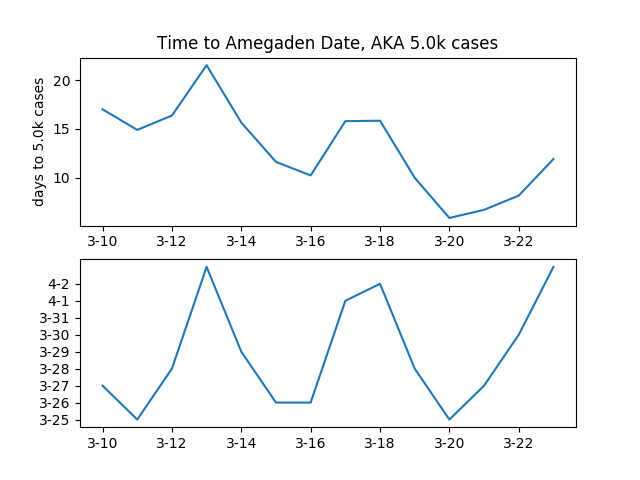
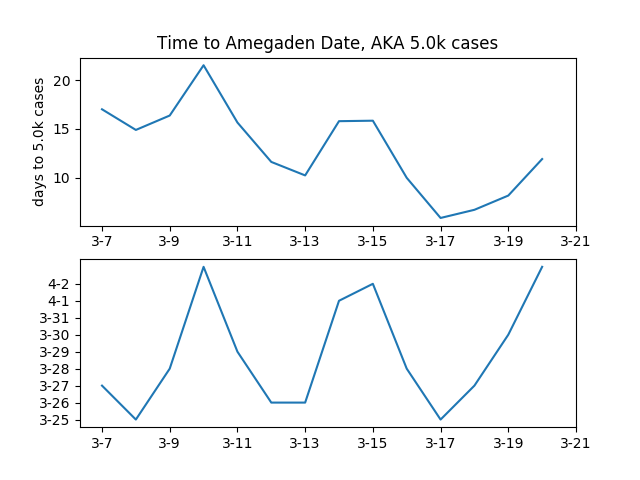
rate computation for multiple states

diff --git a/log_trend.py b/log_trend.py
@@ -13,7 +13,7 @@ n_cases['New York'] = [89, 105, 142, 173, 216, 325, 421, 613, 729, 950, 1374, 24
 n_cases['Italy'] = [1694, 2036, 2502, 3089, 3858, 4636, 5883, 7375, 9172, 10149, 12462, 15113, 17660, 21157, 24747, 27980, 31506, 35713, 41035, 47021, 53578, 59138, 63937]
 n_cases['France'] = [949, 1126, 1412, 1784, 2281, 2876, 3661, 4499, 5423, 6633, 7730, 9134, 10995, 12612, 14459, 16689, 19846]
 n_cases['Germany'] = [684, 847, 1113, 1460, 1884, 2369, 3062, 3795, 4838, 6012, 7156, 8198, 10999, 13957, 16662, 18610, 22672]
-
+n_cases['USA'] = [24, 42, 57, 85, 111, 175, 252, 352, 495, 643, 932, 1203, 1598, 2160, 2827, 3497, 4372, 5656, 8074, 12018, 17438, 23710, 32518, 41444]
 update_date = {}
 update_date['Washington'] = datetime.date(2020,3,22)
 update_date['New York'] = datetime.date(2020,3,23)
@@ -22,36 +22,15 @@ update_date['Georgia'] = datetime.date(2020,3, 23)
 update_date['Italy'] = datetime.date(2020,3, 23)
 update_date['France'] = datetime.date(2020,3, 23)
 update_date['Germany'] = datetime.date(2020, 3, 23)
+update_date['USA'] = datetime.date(2020, 3, 23)
 
 
 # update_date['California']
 
-def get_dates_labels(offset=0, tick_horizon=2, days_range=None):
-    # labeling start date = start_date + offset THIS CAN BE USED FOR GEORGIA DATA ONLY
-    # tick_horizon = 2
-    start_date = datetime.date(2020,3,7)
-    time_delta = datetime.timedelta(days=tick_horizon)
-    date_format = lambda date_obj: "{:}-{:}".format(date_obj.month, date_obj.day)
-    if days_range is None:
-        start_tick = 0
-        end_tick = int((date.today() - start_date).days) - offset
-    else:
-        start_tick, end_tick = days_range
-
-    date_ticks = []
-    cur_date = start_date + datetime.timedelta(days=offset + start_tick)
-    all_dates = []
-    for i in range(start_tick, end_tick, tick_horizon):
-        date_ticks.append(i)
-        all_dates.append(date_format(cur_date))
-        cur_date += time_delta
-    return (date_ticks, all_dates)
-
 def cut_data(data, start_date, update_date=date.today(), offset=0):
-    """cur data from start_date to today inclusive of end points"""
+    """cur data from (start_date - offset) to today inclusive of end points """
     n = (update_date - start_date).days + 1 + offset
     return data[-n:]
-
 
 
 def compute_moving_avg(n_cases, horizon=3):
@@ -66,9 +45,6 @@ def compute_moving_avg(n_cases, horizon=3):
     return average_growth_rates
 
 
-
-
-
 ## analyze the moving average from a fixed date, as trigger event to see the effectiveness of measures 
 closing_schools = {}
 closing_schools['Washington'] = datetime.date(2020,3,12)
@@ -78,68 +54,23 @@ closing_schools['Georgia'] = datetime.date(2020,3,13)
 closing_schools['Italy'] = datetime.date(2020,3,4)
 closing_schools['France'] = datetime.date(2020,3,13)
 closing_schools['Germany'] = datetime.date(2020, 3, 13)
+closing_schools['USA'] = datetime.date(2020, 3, 13)
+
 # closing_schools['SK'] = datetime.date()
 
-plt.figure()
-plt.title('average growth rate since school closure')
-offset=4
-for state in n_cases.keys():
-    data = cut_data(n_cases[state], closing_schools[state], update_date=update_date[state], offset=offset)
-    moving_avg = compute_moving_avg(data, horizon=5)
-    plt.plot(moving_avg, label=state)
-    plt.xlabel('days')
-    plt.ylabel('growth_rate')
-    plt.axvline(x=offset)
-plt.legend()
-plt.savefig('closign_schools')
-
-
-###### analysis for Georgia
-
-g_cases = n_cases['Georgia']
-for moving_ave_horizon in [3,5]:
-
+if __name__ == '__main__':
     plt.figure()
-    plt.subplot(211)
-    plt.plot(g_cases)
-    date_ticks, all_dates = get_dates_labels()
-    plt.xticks(date_ticks, all_dates)
-    plt.yscale('log')
-    plt.ylabel('Num Cases')
-    plt.title(" Average Rate, Horizon {:}, Data Source: Wikipedia Covid USA".format(moving_ave_horizon))
+    plt.title('average growth rate since school closure')
+    offset=4
+    for state in n_cases.keys():
+        data = cut_data(n_cases[state], closing_schools[state], update_date=update_date[state], offset=offset)
+        moving_avg = compute_moving_avg(data, horizon=5)
+        plt.plot(moving_avg, label=state)
+        plt.xlabel('days')
+        plt.ylabel('growth_rate')
+        plt.axvline(x=offset)
+    plt.legend()
+    plt.savefig('closign_schools')
 
-    date_ticks, all_dates = get_dates_labels(offset=moving_ave_horizon)
-    average_growth_rates = compute_moving_avg(g_cases, horizon=moving_ave_horizon)
 
 
-    plt.subplot(212)
-    target = 5000
-
-    plt.plot(average_growth_rates)
-
-    plt.xticks(date_ticks, all_dates)
-    plt.ylabel('ave_growth_rate')
-    plt.savefig('./Georgia/ {:} {:} rate moving_ave length  '.format(date.today(), moving_ave_horizon))
-    plt.figure()
-    
-    plt.subplot(211)
-    plt.title('Time to Amegaden Date, AKA {:}k cases'.format(target/1000))
-    number_days_to_blow_up = [math.log(target / float(g_cases[moving_ave_horizon + idx])) / math.log(ele) for (idx, ele) in enumerate(average_growth_rates)]
-    plt.plot(number_days_to_blow_up)
-
-    # plt.plot(average_growth_rates)
-
-    plt.xticks(date_ticks, all_dates)
-    plt.ylabel('days to {:}k cases'.format(target/1000))
-    # plt.show()
-    
-
-    # plt.figure()
-    plt.subplot(212)
-    int_number_days = [int(ele) + idx for (idx, ele) in enumerate(number_days_to_blow_up)]
-    y_tick, y_label = get_dates_labels(offset=moving_ave_horizon, tick_horizon=1, days_range=[min(int_number_days), max(int_number_days)])
-    plt.plot(int_number_days)
-    plt.xticks(date_ticks, all_dates)
-    plt.yticks(y_tick, y_label)
-        # plt.show()
-    plt.savefig('./Georgia/ {:} {:} amegaden date move_ave length 1'.format(date.today(), moving_ave_horizon))

diff --git a/state_trend.py b/state_trend.py
@@ -1,0 +1,99 @@
+from log_trend import * 
+###### analysis for Georgia
+
+start_date = {}
+record_state = {'USA', 'Georgia'}
+start_date['USA'] = datetime.date(2020, 2, 29)
+start_date['Georgia'] = datetime.date(2020, 3, 7)
+
+
+def get_dates_labels(offset=0, tick_horizon=2, days_range=None, start_date=datetime.date(2020,3,7),end_date=date.today()):
+    # labeling start date = start_date + offset THIS CAN BE USED FOR GEORGIA DATA ONLY
+    # tick_horizon = 2
+    # start_date = datetime.date(2020,3,7)
+    time_delta = datetime.timedelta(days=tick_horizon)
+    date_format = lambda date_obj: "{:}-{:}".format(date_obj.month, date_obj.day)
+    if days_range is None:
+        start_tick = 0
+        end_tick = int((end_date - start_date).days) - offset
+    else:
+        start_tick, end_tick = days_range
+
+    date_ticks = []
+    cur_date = start_date + datetime.timedelta(days=offset + start_tick)
+    all_dates = []
+    for i in range(start_tick, end_tick, tick_horizon):
+        date_ticks.append(i)
+        all_dates.append(date_format(cur_date))
+        cur_date += time_delta
+    return (date_ticks, all_dates)
+
+def get_start_date(data_lis, update_date=date.today()):
+    return update_date - datetime.timedelta(days=len(data_lis) - 1)
+
+
+states = ['Georgia', 'USA', 'New York', 'California', 'Washington']
+
+start_date = min([get_start_date(n_cases[state], update_date=update_date[state]) for state in states])
+end_date = max([update_date[state] for state in states])
+xlim = [0, (end_date - start_date).days]
+date_ranges = {}
+for state in states:
+    offset = (get_start_date(n_cases[state], update_date=update_date[state]) - start_date).days 
+    date_ranges[state] = range(offset, offset + len(n_cases[state]) )
+
+for moving_ave_horizon in [3,5]:
+
+    plt.figure()
+    plt.subplot(211)
+    for state in states:
+        plt.plot(date_ranges[state], n_cases[state], label=state)
+    date_ticks, all_dates = get_dates_labels(start_date=start_date)
+    plt.xticks(date_ticks, all_dates)
+    plt.yscale('log')
+    plt.ylabel('Num Cases')
+    plt.legend()
+    plt.title(" Average Rate, Horizon {:}, Data Source: Wikipedia Covid USA".format(moving_ave_horizon))
+
+    # date_ticks, all_dates = get_dates_labels(offset=moving_ave_horizon)
+
+    
+
+
+    plt.subplot(212)
+    for state in states:
+        average_growth_rates = compute_moving_avg(n_cases[state], horizon=moving_ave_horizon)
+        plt.plot(date_ranges[state][moving_ave_horizon:], average_growth_rates, label=state)
+        plt.xlim = xlim
+
+    plt.xticks(date_ticks, all_dates)
+    plt.legend()
+    plt.ylabel('ave_growth_rate')
+    # plt.savefig('./Georgia/ {:} {:} rate moving_ave length  '.format(date.today(), moving_ave_horizon))
+
+    plt.figure()
+    target = 5000
+    g_cases = n_cases['Georgia']
+    average_growth_rates = compute_moving_avg(g_cases, horizon=moving_ave_horizon)
+
+    plt.subplot(211)
+    plt.title('Time to Amegaden Date, AKA {:}k cases'.format(target/1000))
+    number_days_to_blow_up = [math.log(target / float(g_cases[moving_ave_horizon + idx])) / math.log(ele) for (idx, ele) in enumerate(average_growth_rates)]
+    plt.plot(number_days_to_blow_up)
+
+    # plt.plot(average_growth_rates)
+    date_ticks, all_dates = get_dates_labels(offset=moving_ave_horizon, end_date=update_date['Georgia'])
+    plt.xticks(date_ticks, all_dates)
+    plt.ylabel('days to {:}k cases'.format(target/1000))
+    # plt.show()
+    
+
+    # plt.figure()
+    plt.subplot(212)
+    int_number_days = [int(ele) + idx for (idx, ele) in enumerate(number_days_to_blow_up)]
+    y_tick, y_label = get_dates_labels(offset=moving_ave_horizon, tick_horizon=1, days_range=[min(int_number_days), max(int_number_days)])
+    plt.plot(int_number_days)
+    plt.xticks(date_ticks, all_dates)
+    plt.yticks(y_tick, y_label)
+    plt.show()
+    # plt.savefig('./Georgia/ {:} {:} amegaden date move_ave length 1'.format(date.today(), moving_ave_horizon))
